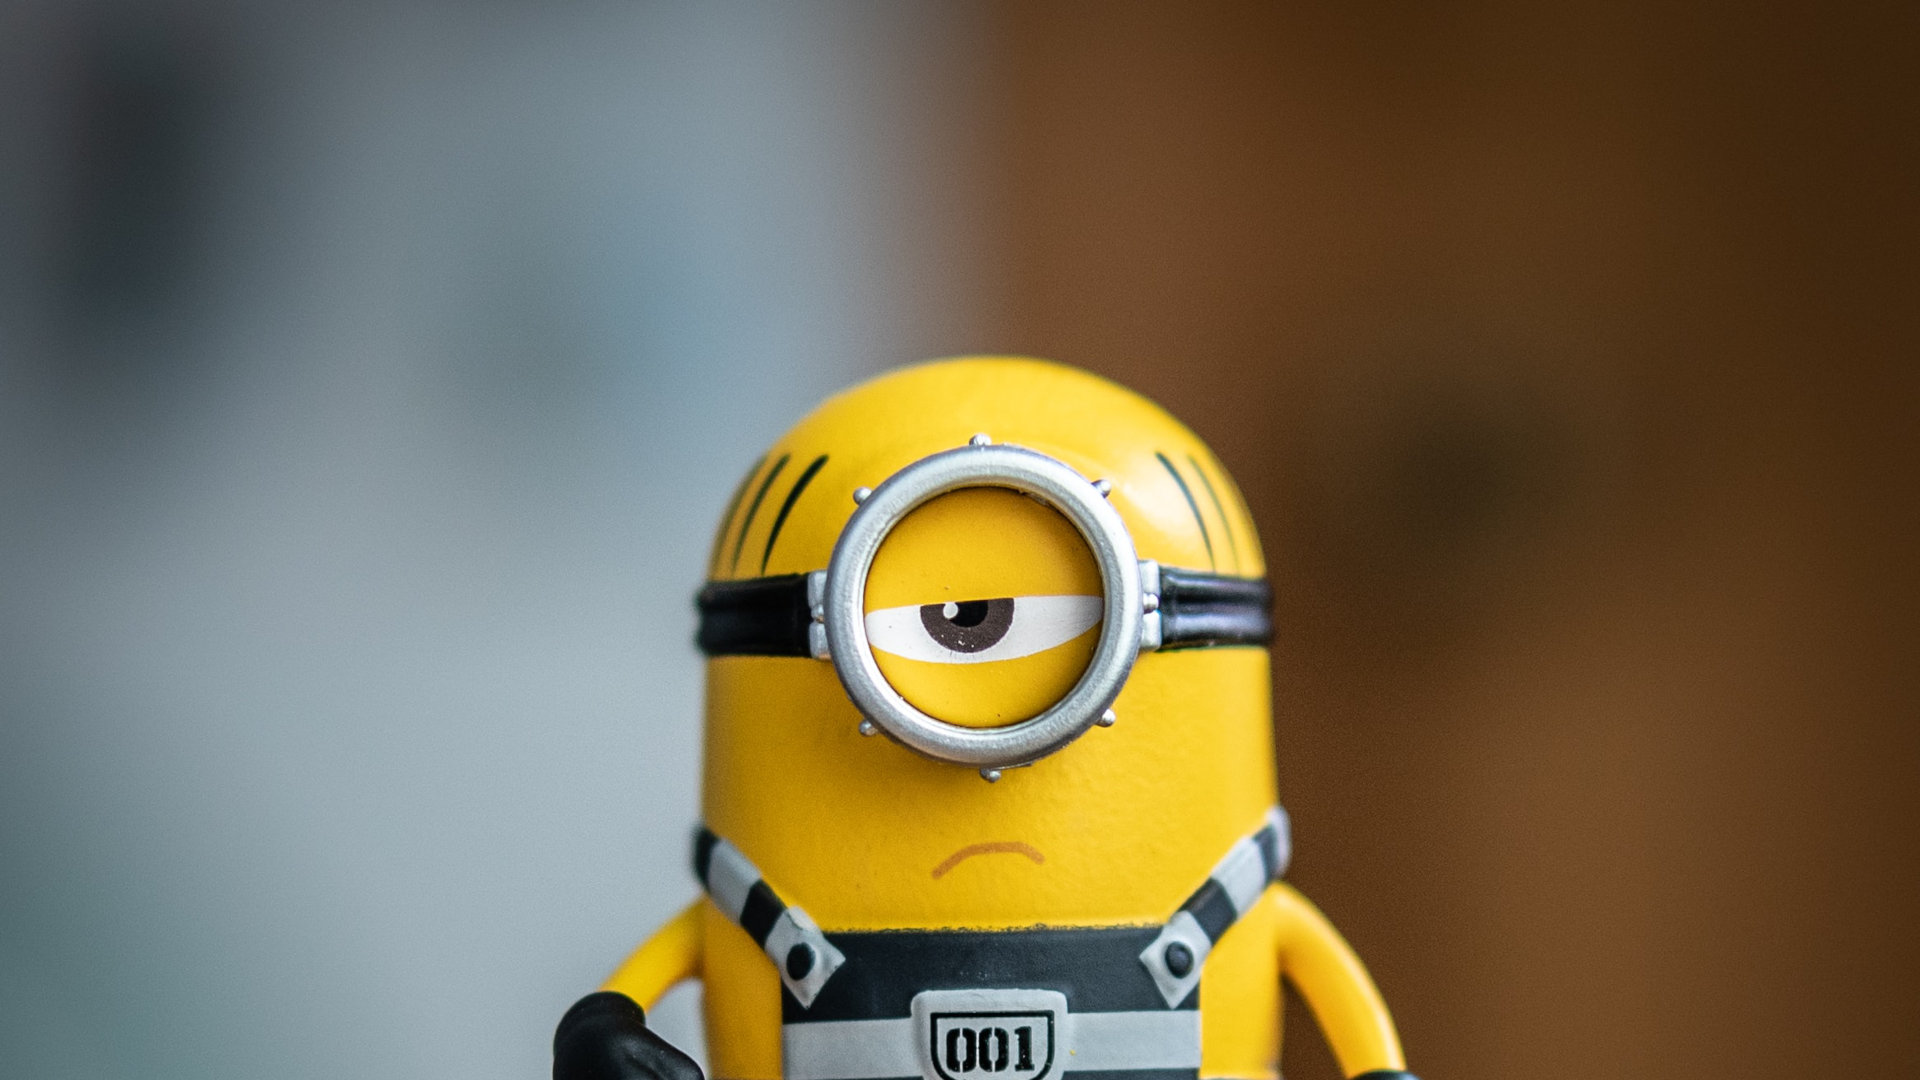
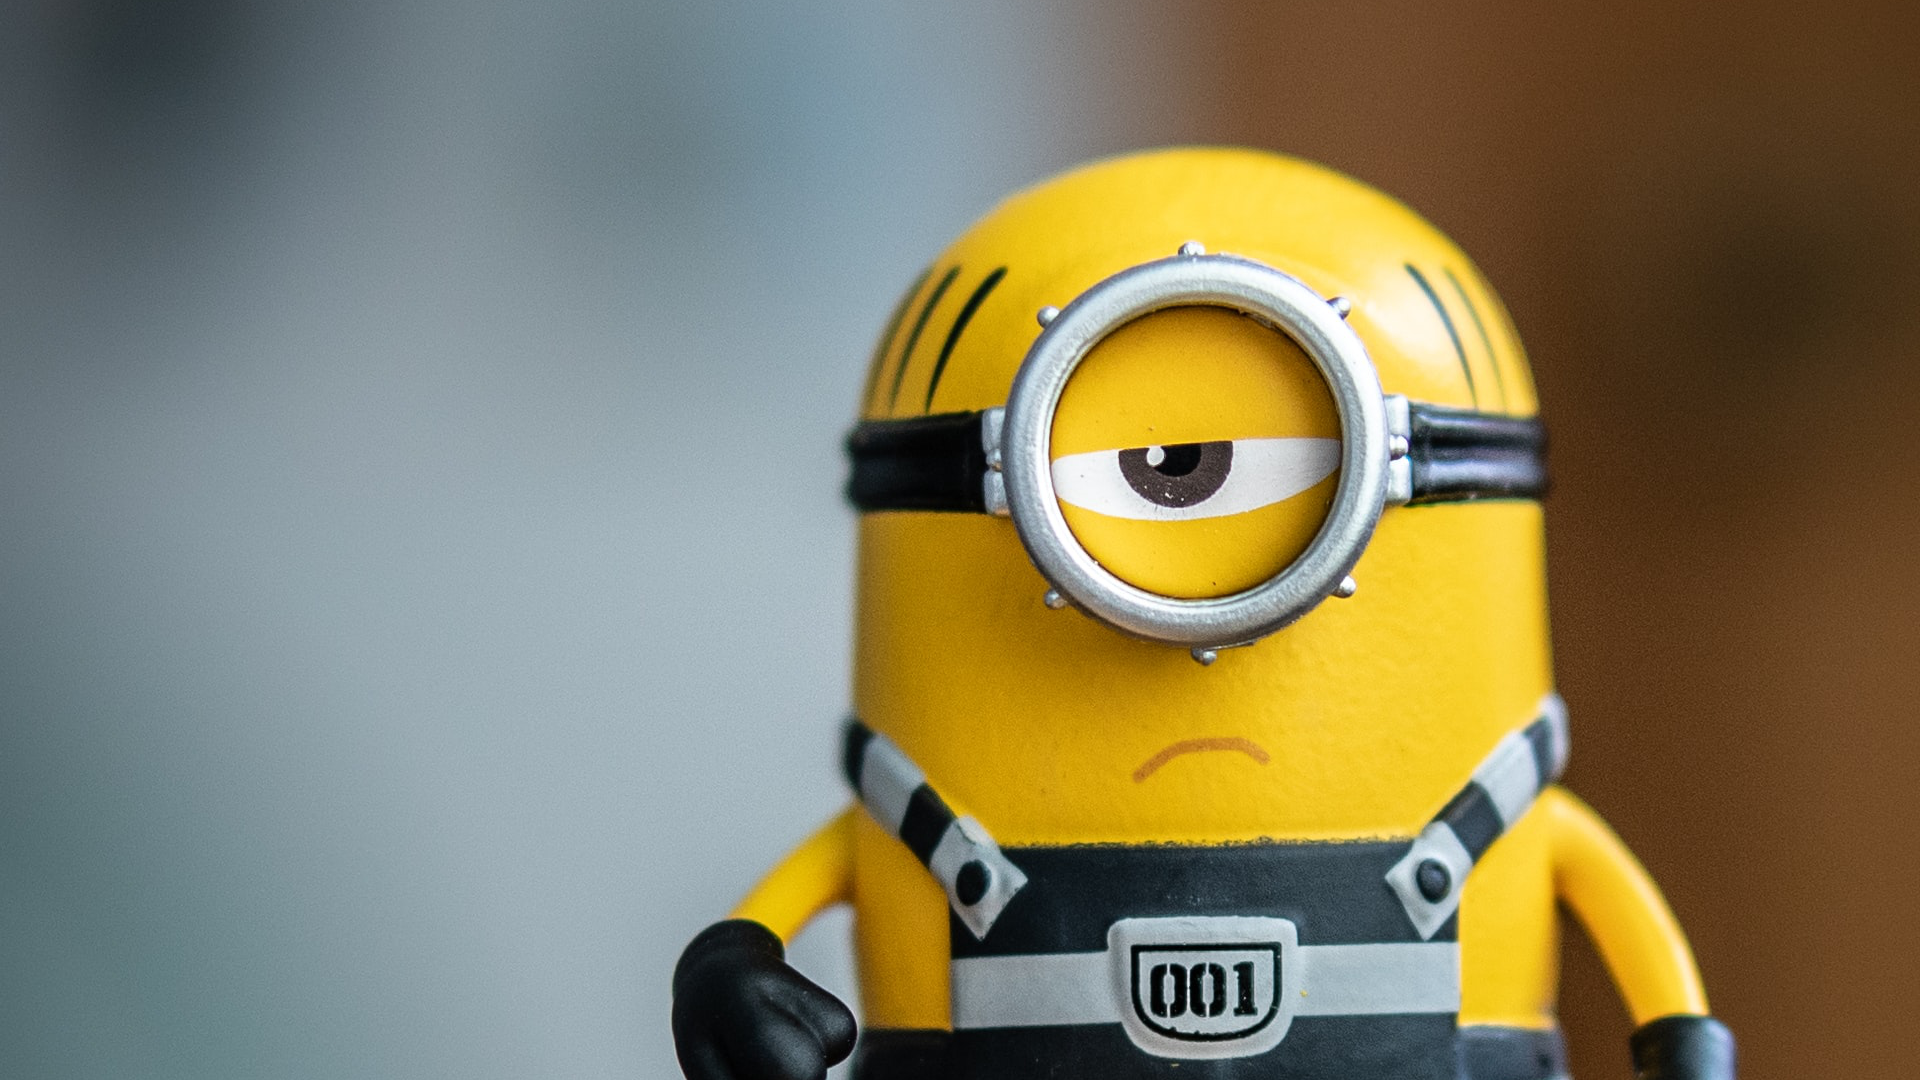
Cropped image and finished README.md.

diff --git a/README.md b/README.md
@@ -6,7 +6,7 @@ This here is a joke logger for storing simple jokes. THe jokes take three inputs
 
 ## Interface
 
-![screenshot](./server/public/images/screenshot.png)
+![wireframe](./server/public/images/wireframe.png)
 
 ## Languages
 
